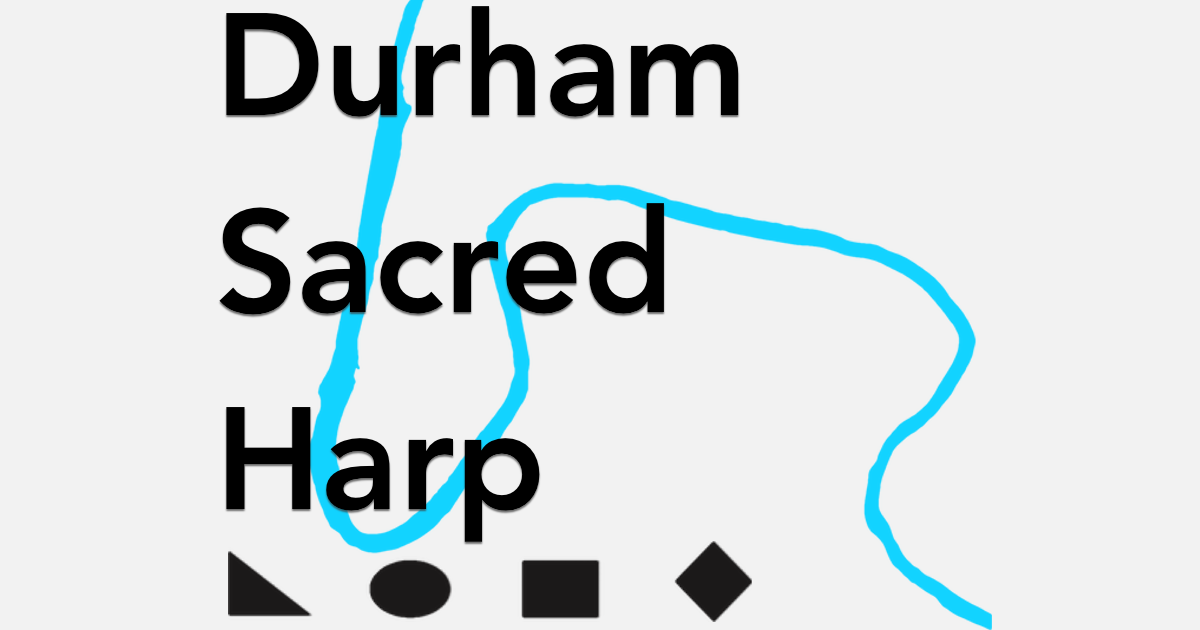
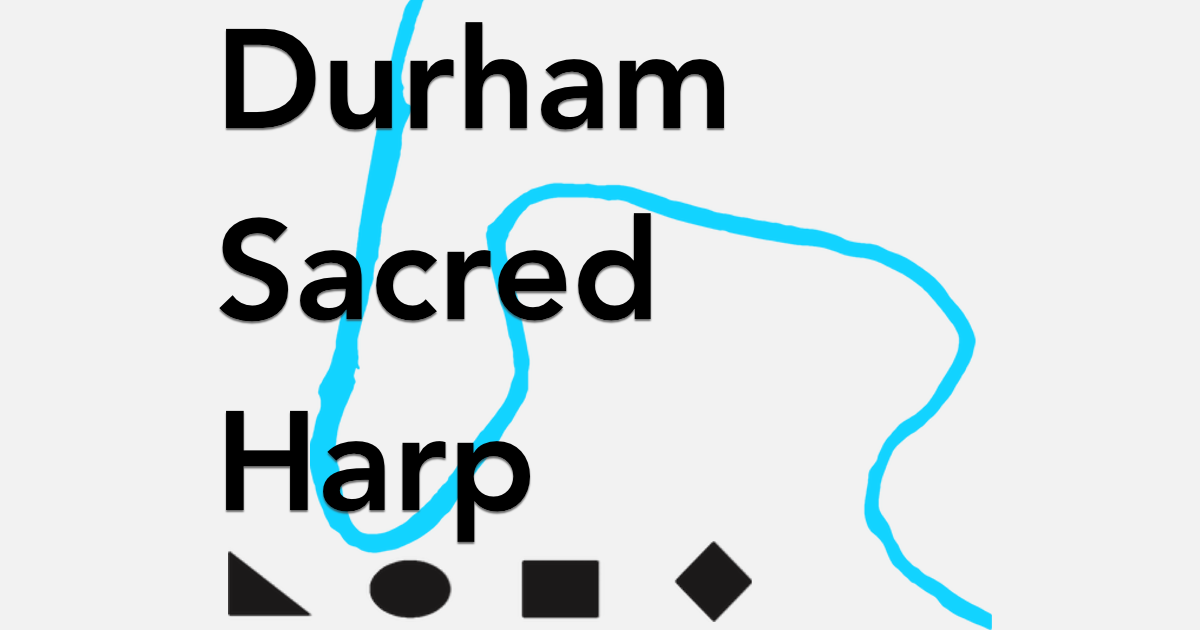
fixing image metadata

diff --git a/index.html b/index.html
@@ -12,7 +12,7 @@
     <meta name="description" content="Durham Sacred Harp meet to sing in Durham city centre twice a month" />
     <meta property="og:title" content="Durham Sacred Harp" />
     <meta property="og:description" content="Sing American folk hymns in Durham" />
-    <meta property="og:image" content="https://durhamsacredharp.co.uk/images/durham_sacred_harp_logo_rectangle_social_grey.png" />
+    <meta property="og:image" content="https://durhamsacredharp.co.uk/images/durham_sacred_harp_logo_rectangle_social.png" />
     <link rel="icon" type="image/x-icon" href="https://durhamsacredharp.co.uk/images/favicon.ico" />
 
 </head>
